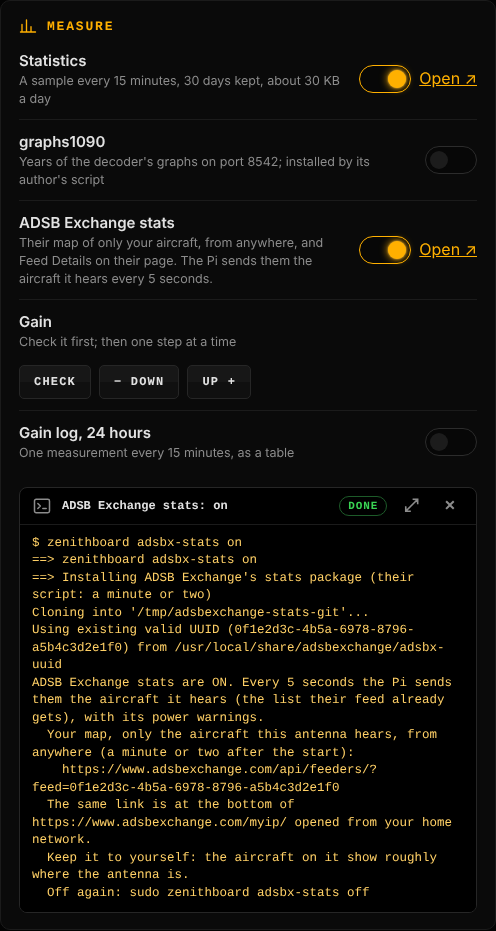
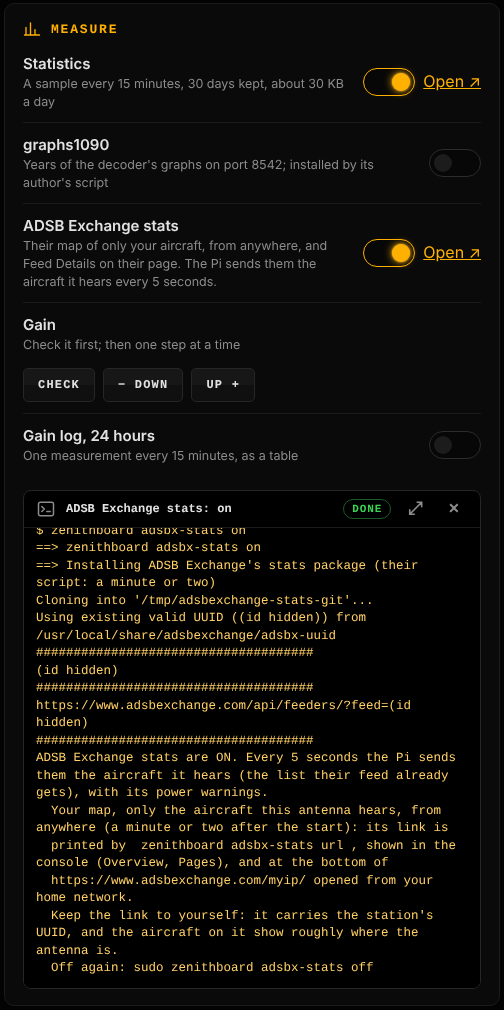
0.52.0: the review's points: off keeps what it could not put back, the UUID kept out of pasted output, one package installer at a time

diff --git a/flightinfo/static/console.js b/flightinfo/static/console.js
@@ -938,6 +938,8 @@ window.ZBI18N.start({ part: "console" }, function () {
     if (f.svc_fr24feed !== undefined) list.push(page("plane", t("Flightradar24"), t("Its feeder's page, port 8754"), "http://" + hh + ":8754/"));
     if (f.svc_adsbexchange_feed !== undefined) list.push(h("a", { "class": "page", href: "https://www.adsbexchange.com/myip/", target: "_blank", rel: "noopener noreferrer" }, ico("link"), h("div", null, h("b", { text: t("ADSB Exchange") }), h("span", { text: t("Your feed, on their site") }))));
     if (adsbxMap()) list.push(h("a", { "class": "page", href: adsbxMap(), target: "_blank", rel: "noopener noreferrer" }, ico("map"), h("div", null, h("b", { text: t("Your aircraft on ADSB Exchange") }), h("span", { text: t("Their map: only what your antenna hears") }))));
+    // on, but the UUID unreadable here: their myip page carries the same link at its bottom
+    else if (f.adsbx_stats === "on") list.push(h("a", { "class": "page", href: "https://www.adsbexchange.com/myip/", target: "_blank", rel: "noopener noreferrer" }, ico("map"), h("div", null, h("b", { text: t("Your aircraft on ADSB Exchange") }), h("span", { text: t("Your feed, on their site") }))));
     else if (f.svc_adsbexchange_feed !== undefined) list.push(later("map", t("Your aircraft on ADSB Exchange"), t("Off · switch on in Receiver"), "receiver"));
     if (f.bluesky) {
       list.push(page("picture", t("Last post's picture"), t("What 'Try a post' drew"), "/social/preview"));

diff --git a/CHANGELOG.md b/CHANGELOG.md
@@ -7,7 +7,11 @@
   - the console: *Receiver → Measure*, with a link to your map in *Pages*.
 - **`off` puts back what `on` found**: their own uninstaller, then the packages their script added (jq, bind9-host, bash-builtins: whichever were not there before) unless something installed since needs one, and the video group it gave the `adsbexchange` user. The feed's UUID stays, so `on` again gives the same map. A copy installed by hand with their two lines is seen as on; `off` removes it and touches no package.
 - **Removing ADSB Exchange removes its stats first.** Their feed's uninstaller leaves the stats service running, and it fails every two minutes without the feed. `zenithboard update` runs their stats script again when it is on, as their README says to update it.
-- The stats are part of a backup's *what was on*. On a new card they wait for ADSB Exchange's feed, and the restore says the command to run after menu 1. `zenithboard status` shows the service but never the link: the link carries the UUID, and status is often pasted. The link is given by `adsbx-stats url`, `status` and `on`, and in the console. The monthly address check covers `https://adsbexchange.com/stats.sh`. The console's new strings are translated into each language.
+- **The link to your map carries the station's UUID, so only `adsbx-stats url` and the console show it.** `on`, `status`, `zenithboard status` and the update's output say where to find it instead; they are often pasted or screenshotted. Their script prints the UUID and the link at its end, and both are hidden as `(id hidden)`. `zenithboard health` hides any station UUID in the last lines of a boot that ended abruptly; their service writes its UUID there at every start.
+- **What `off` could not put back is kept for the next `off`**, for instance when apt is busy with the daily security fixes, or when the group is refused. Before, the notes went anyway, and a second `off` said *already off* with the packages still there. Packages that something installed since needs are left with the command to remove them later. Packages graphs1090 also uses (bash-builtins, git) stay while it is on, and the other way round.
+- **One package installer at a time**: graphs1090's and the stats' installers wait for each other, so one never counts the other's packages as its own. That could happen when the console ran one while the terminal ran the other.
+- *Uninstall everything* removes the stats even when ADSB Exchange's feed was removed by hand first. Unticking them in menu 1 finishes what a failed attempt left.
+- The stats are part of a backup's *what was on*. On a new card they wait for ADSB Exchange's feed, and the restore says the command to run after menu 1. The monthly address check covers `https://adsbexchange.com/stats.sh`. The console's new strings are translated into each language. An independent review of this release found the points above before it shipped.
 
 ## 0.51.0
 - **The posts in your language** (asked for by the owner on 22 October 2026): `sudo zenithboard social lang fr`, *Sharing → Language of the posts* in the console, or *Social sharing → 11* in the menu. It stays English until you set it. Every word of the aircraft posts follows it, in all five shapes, and so do the openings (*Visiteur rare :*), the place (*au-dessus d'Ennery*), the summaries' four texts and the alt texts. Each post declares its language to Bluesky. Numbers, dates, weekdays and country names come out as the language writes them, from Unicode's CLDR (`tools/make_post_locale.js` writes `flightinfo/data/post-locale.json` from Node's Intl): *11 280 m*, *12–18 octobre*, *Allemagne*. Plurals follow each language's rules, checked against Intl. English posts are unchanged, word for word. What stays English: the labels drawn in the pictures (they wait for the dot font's letters and a CJK font), the city names from the route database, the map credits, and your hashtags.

diff --git a/docs/wiki/Testing.md b/docs/wiki/Testing.md
@@ -47,7 +47,7 @@ Run the whole set before pushing. It takes well under a minute, and the shell te
 | `test_layout.js` | The settings gear clears the photo and the silhouette on 15 screen sizes |
 | `test_update_verify.sh` | The update's signature check: the whole decision table, real expired and current gpg keys, the one-time question for older installs, and that the private download folder outlives the sub-shell that asked for it |
 | `test_console.py`, `test_console.sh` | The web console (0.39.0): the fixed list refuses anything else (shell characters, ranges, unknown actions); scrypt; home networks only and the Host check against DNS rebinding; the sign-in limits; sessions kept as hashes, their lifetimes, a sign-out for everyone; a pairing code working once; every request path (cookie flags, the CSRF header, the origin, JSON only); the root helper against a stand-in command, with forged, oversized and linked job files ignored; `console password`, `on`, `off`, `pair`, `forget` |
-| `test_adsbx_stats.sh` | ADSB Exchange's stats (0.52.0): refused without the feed; their script from the pinned address; exactly the packages it added noted (one removed earlier with its settings left is not counted as there) and removed by `off`, unless something now needs one; the video group put back; the UUID kept; a copy installed by hand removed without touching a package; a link in `/tmp` never followed; only a real UUID makes a link; removing ADSB Exchange takes the stats first; `status` never prints the link |
+| `test_adsbx_stats.sh` | ADSB Exchange's stats (0.52.0): refused without the feed; their script from the pinned address; exactly the packages it added noted (one removed earlier with its settings left is not counted as there) and removed by `off`, unless something now needs one; the video group put back; the UUID kept; a copy installed by hand removed without touching a package; a link in `/tmp` never followed; only a real UUID makes a link; removing ADSB Exchange takes the stats first; `on`, `status` and the update never print the UUID (theirs hidden), health hides it; what `off` could not put back (apt busy, the group refused) kept for the next `off`; graphs1090's shared packages left; one package installer at a time |
 | `test_docs.sh` | Every command the program accepts, and every line of its help, appears on the [Command reference](Command-reference) page |
 
 ## The two patterns

diff --git a/docs/wiki/Providers.md b/docs/wiki/Providers.md
@@ -61,7 +61,9 @@ Each feeder fails on its own. A 404 from Plane Finder does not stop FlightAware 
 
 ![The console's Receiver → Measure with ADSB Exchange's stats on and the link to their map](https://raw.githubusercontent.com/regis57/ZenithBoard/main/docs/images/console-adsbx-stats.png)
 
-**Keep the link to yourself.** It carries the UUID, and the aircraft on the map show roughly where the antenna is. ZenithBoard prints it for `adsbx-stats url`, `status` and `on`, and the console shows it, signed in; `zenithboard status`, which is often pasted, does not.
+**Keep the link to yourself.** It carries the UUID, and the aircraft on the map show roughly where the antenna is. Only `zenithboard adsbx-stats url` prints it, and the console links to it (signed in). `on`, `status`, `zenithboard status` and the update say where it is instead, because their output is pasted and screenshotted. Their script prints the UUID and the link at its end, and ZenithBoard shows that output with both hidden as `(id hidden)`. `zenithboard health` hides a station's UUID in the last lines of a boot that ended abruptly.
+
+**If `off` cannot finish** (apt busy with the daily security fixes, the group refused), it says so and keeps what is left for the next `off`. A package that something installed since needs is left, with the command to remove it later. graphs1090 also brings bash-builtins and git: while it is on, those stay. Their installer and graphs1090's run one at a time, so neither counts the other's packages as its own.
 
 ### Flightradar24
 
